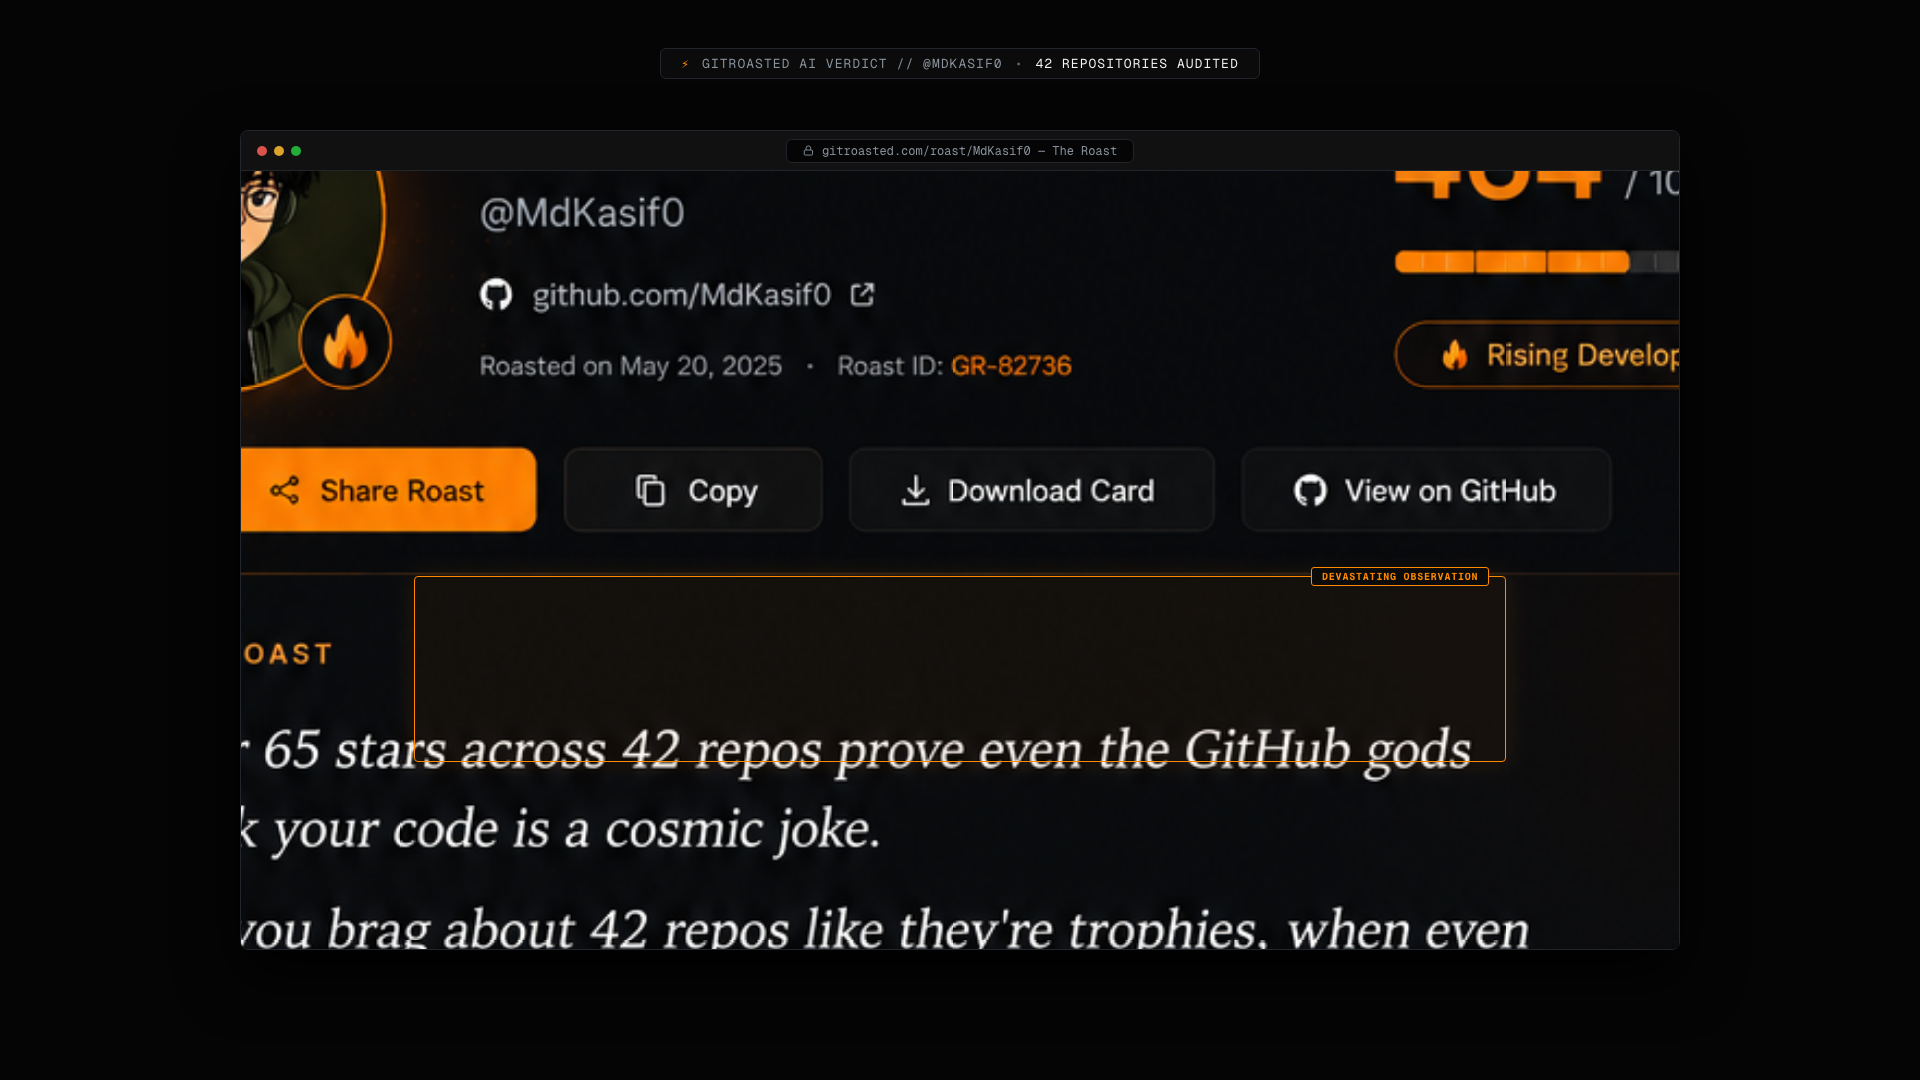
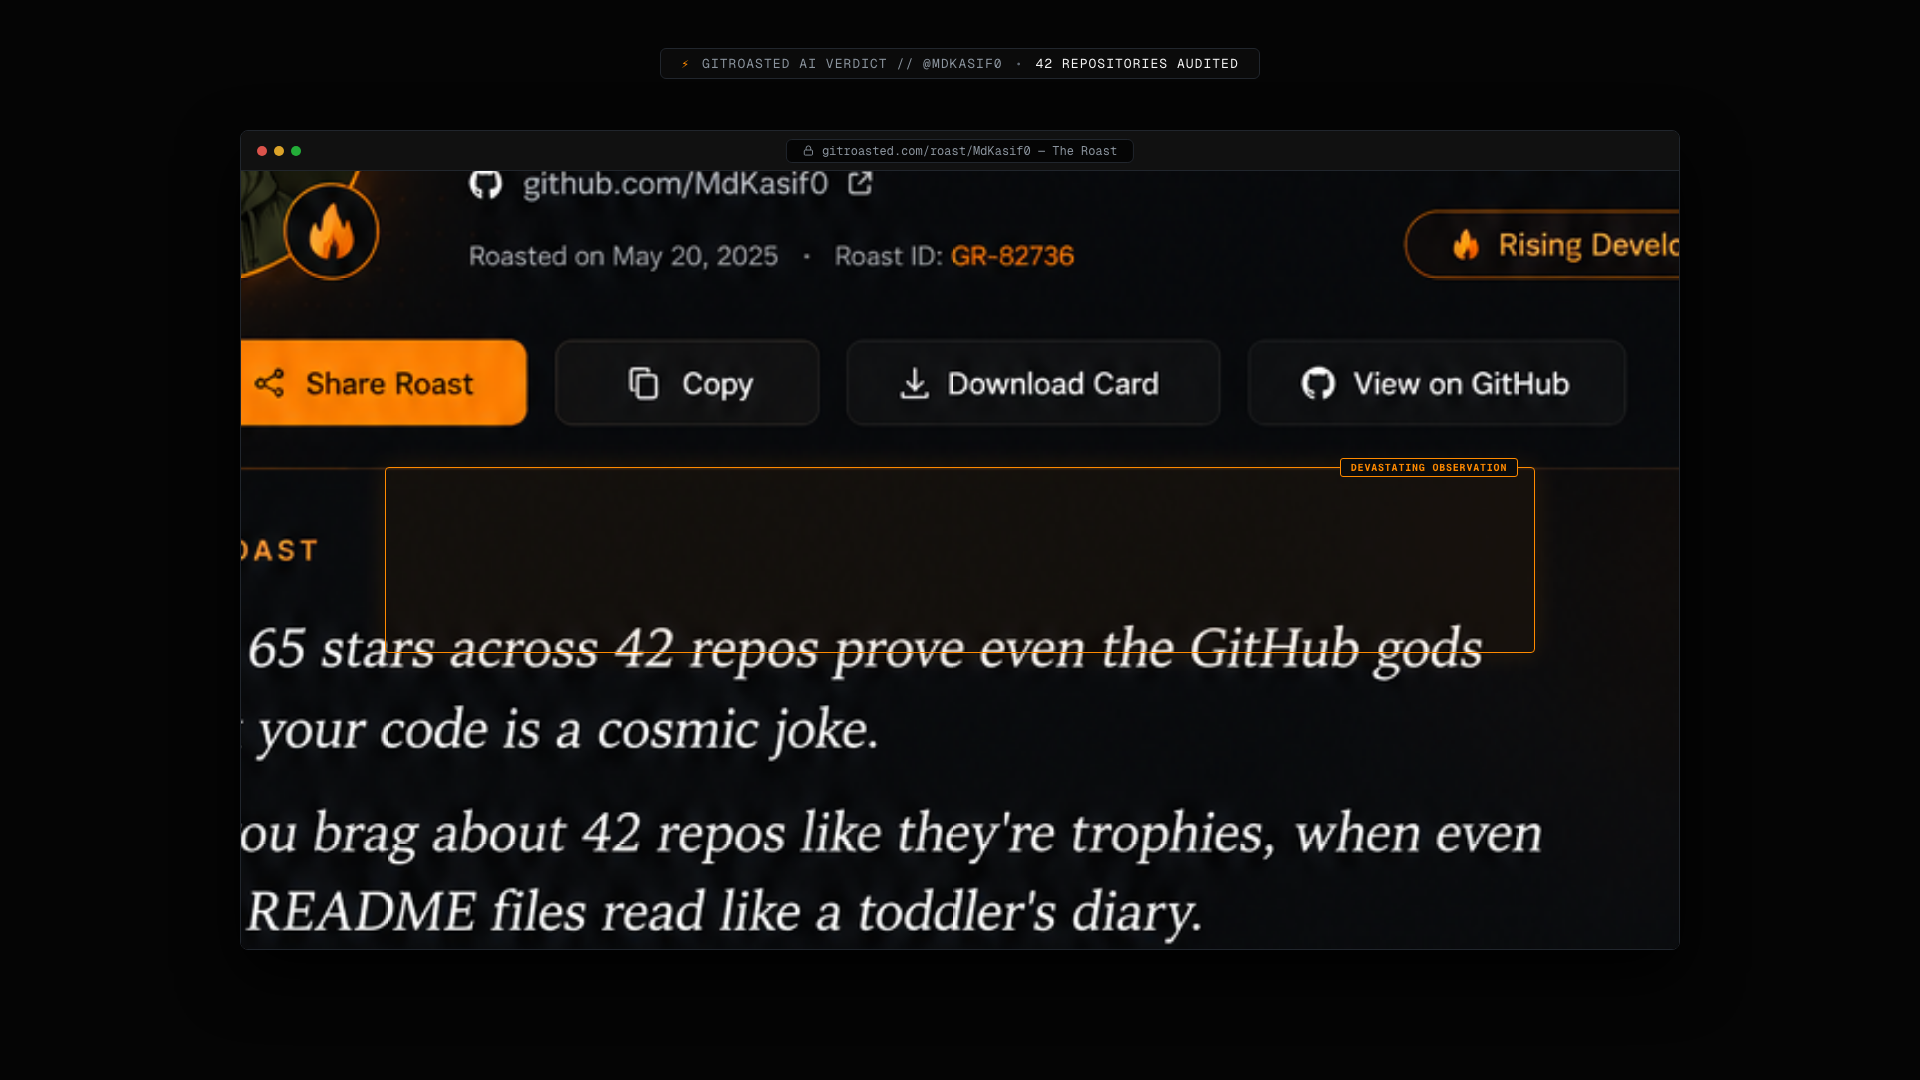
style: adjust element positioning in Roast scene and update still assets

diff --git a/src/scenes/Roast.tsx b/src/scenes/Roast.tsx
@@ -209,9 +209,9 @@ export const Roast: React.FC = () => {
                   <div
                     style={{
                       position: 'absolute',
-                      top: '52%',
-                      left: '12%',
-                      width: '76%',
+                      top: '38%',
+                      left: '10%',
+                      width: '80%',
                       height: '24%',
                       border: '1px solid #FF8A00',
                       borderRadius: 4,
@@ -370,7 +370,7 @@ export const Roast: React.FC = () => {
               <div
                 style={{
                   position: 'absolute',
-                  top: '56%',
+                  top: '38%',
                   left: '10%',
                   width: '80%',
                   height: '24%',
